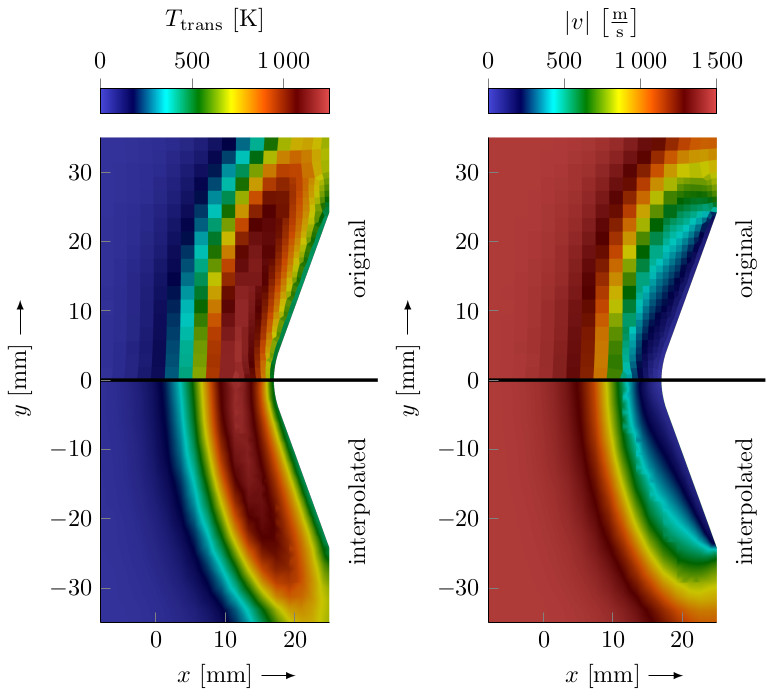
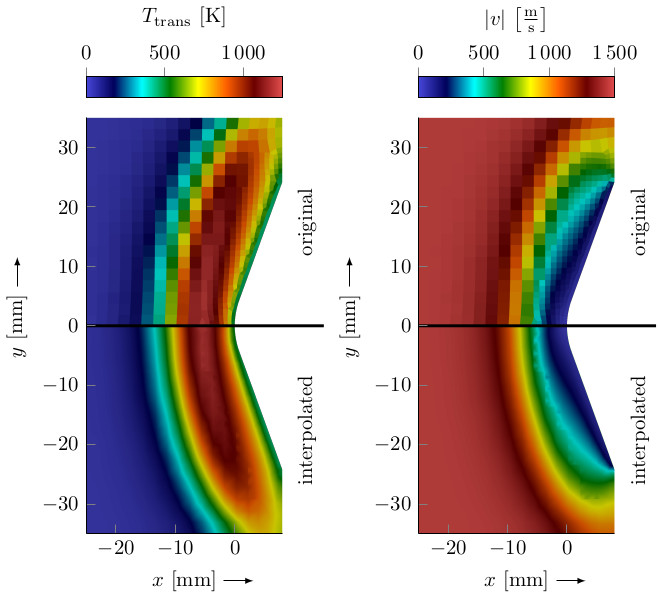
DSMC Tutorials: Fix axis of Figure 7.8, clarification regarding mesh conversion, build process and simulation restart

diff --git a/docs/documentation/userguide/tutorials/dsmc-cone/results/dsmc-cone-visu.tex b/docs/documentation/userguide/tutorials/dsmc-cone/results/dsmc-cone-visu.tex
@@ -19,8 +19,8 @@
     axis equal image,
     scaled ticks=false,
     unbounded coords=jump,
-    xmin=-8,
-    xmax=25,
+    xmin=-25,
+    xmax=8,
     ymin=-35,
     ymax=35,
     xlabel style={name=xlabel},
@@ -48,11 +48,11 @@
       xlabel style={yshift=1.8cm},
       xlabel={$T_\text{trans}$ $\left[\si{K}\right]$}}
     ]
-    \addplot graphics [xmin=-8,xmax=25,ymin=0,ymax=35] {./dsmc-cone-visuDSMC-2ms-TempTransMean.png};
-    \addplot graphics [xmin=-8,xmax=25,ymin=-35,ymax=0] {./dsmc-cone-visuDSMC-2ms-TempTransMean-point.png};
-    \addplot [line width=0.5mm] (-8,0) -- (32,0);
-    \node[above,rotate=90] at (32, 17.5) {original};
-    \node[above,rotate=90] at (32, -17.5) {interpolated};
+    \addplot graphics [xmin=-25,xmax=8,ymin=0,ymax=35] {./dsmc-cone-visuDSMC-2ms-TempTransMean.png};
+    \addplot graphics [xmin=-25,xmax=8,ymin=-35,ymax=0] {./dsmc-cone-visuDSMC-2ms-TempTransMean-point.png};
+    \addplot [line width=0.5mm] (-25,0) -- (15,0);
+    \node[above,rotate=90] at (15, 17.5) {original};
+    \node[above,rotate=90] at (15, -17.5) {interpolated};
     \end{axis}
     \draw [-latex] (xlabel.east) -- ++(0.5,0);
     \draw [-latex] (ylabel.east) -- ++(0,0.5);
@@ -63,8 +63,8 @@
     axis equal image,
     scaled ticks=false,
     unbounded coords=jump,
-    xmin=-8,
-    xmax=25,
+    xmin=-25,
+    xmax=8,
     ymin=-35,
     ymax=35,
     xlabel style={name=xlabel},
@@ -92,11 +92,11 @@
       xlabel style={yshift=1.8cm},
       xlabel={$\left|v\right|$ $\left[\si{\frac{m}{s}}\right]$}}
     ]
-    \addplot graphics [xmin=-8,xmax=25,ymin=0,ymax=35] {./dsmc-cone-visuDSMC-2ms-Velo.png};
-    \addplot graphics [xmin=-8,xmax=25,ymin=-35,ymax=0] {./dsmc-cone-visuDSMC-2ms-Velo-point.png};
-    \addplot [line width=0.5mm] (-8,0) -- (32,0);
-    \node[above,rotate=90] at (32, 17.5) {original};
-    \node[above,rotate=90] at (32, -17.5) {interpolated};
+    \addplot graphics [xmin=-25,xmax=8,ymin=0,ymax=35] {./dsmc-cone-visuDSMC-2ms-Velo.png};
+    \addplot graphics [xmin=-25,xmax=8,ymin=-35,ymax=0] {./dsmc-cone-visuDSMC-2ms-Velo-point.png};
+    \addplot [line width=0.5mm] (-25,0) -- (15,0);
+    \node[above,rotate=90] at (15, 17.5) {original};
+    \node[above,rotate=90] at (15, -17.5) {interpolated};
     \end{axis}
     \draw [-latex] (xlabel.east) -- ++(0.5,0);
     \draw [-latex] (ylabel.east) -- ++(0,0.5);

diff --git a/docs/documentation/userguide/tutorials/dsmc-cone/dsmc-cone.md b/docs/documentation/userguide/tutorials/dsmc-cone/dsmc-cone.md
@@ -10,7 +10,7 @@ The general information needed to setup a DSMC simulation is given in the previo
 
 ## Mesh Generation with HOPR (pre-processing)
 
-Before the actual simulation is conducted, a mesh file in the HDF5 format has to be supplied. The mesh files used by **piclas** are created by supplying an input file `hopr.ini` with the required information for a mesh that has either been created by an external mesh generator or directly from block-structured information in the `hopr.ini` file itself. Here, a conversion from an external mesh generator is required. The mesh needed for this tutorial is already generated and converted to *70degCone_2D_mesh.h5*. The mesh and the corresponding boundaries are depicted in {numref}`fig:dsmc-cone-mesh`.
+Before the actual simulation is conducted, a mesh file in the HDF5 format has to be supplied. The mesh files used by **piclas** are created by supplying an input file `hopr.ini` with the required information for a mesh that has either been created by an external mesh generator or directly from block-structured information in the `hopr.ini` file itself. Here, a conversion from an external mesh generator would be required, however, the mesh needed for this tutorial has already been generated and converted to *70degCone_2D_mesh.h5*. The mesh and the corresponding boundaries are depicted in {numref}`fig:dsmc-cone-mesh`.
 
 ```{figure} mesh/dsmc-cone-mesh-bcs.jpg
 ---
@@ -40,7 +40,7 @@ The `BoundaryName` needs to be the same as in the CGNS file.
     ! BOUNDARY CONDITIONS
     !=============================================================================== !
     BoundaryName = IN
-    BoundaryType = (/2,0,0,0/)
+    BoundaryType = (/3,0,0,0/)
     BoundaryName = OUT
     BoundaryType = (/3,0,0,0/)
     BoundaryName = WALL
@@ -50,11 +50,11 @@ The `BoundaryName` needs to be the same as in the CGNS file.
     BoundaryName = ROTSYM
     BoundaryType = (/4,0,0,0/)
 
-To create the .h5 mesh file, simply run
+To create the .h5 mesh file, you would simply run
 
     hopr hopr.ini
 
-This would create the mesh file *70degCone_2D_mesh.h5* in HDF5 format. For more information see directly at [https://github.com/hopr-framework/hopr](https://github.com/hopr-framework/hopr).
+This would create the mesh file *70degCone_2D_mesh.h5* in HDF5 format. Please note that this is **not required/possible** for the tutorial as the source mesh file (`70degCone_2D_mesh.cgns`) is not available. For more information see directly at [https://github.com/hopr-framework/hopr](https://github.com/hopr-framework/hopr).
 
 ## Flow simulation with DSMC
 
@@ -66,7 +66,7 @@ or simply run the following command from inside the *build* directory
 
     cmake ../ -DPICLAS_TIMEDISCMETHOD=DSMC
 
-to configure the build process and run `make` afterwards to build the executable. An overview over the available solver and discretization options is given in Section {ref}`sec:solver-settings`. The values of the general physical properties are listed in {numref}`tab:dsmc_cone_phys`.
+to configure the build process and run `make` afterwards to build the executable. It is recommended to either utilize a separate build folder (e.g. build_DSMC/) or to delete the contents of the folder beforehand to avoid conflicts between different compiler options (e.g. the setting `PICLAS_EQNSYSNAME = poisson` from the plasma wave tutorial is in conflict with the DSMC method). An overview over the available solver and discretization options is given in Section {ref}`sec:solver-settings`. The values of the general physical properties are listed in {numref}`tab:dsmc_cone_phys`.
 
 ```{table} Physical properties at the simulation start
 ---
@@ -95,28 +95,6 @@ To define an incoming, continuous flow, the procedure is similar to that for ini
     Part-Species1-Surfaceflux1-PartDensity          = 3.715E+20
     Part-Species1-Surfaceflux1-VeloIC               = 1502.57
     Part-Species1-Surfaceflux1-VeloVecIC            = (/1.,0.,0./)
-
-### MPI and Load Balancing
-
-When using several cores, piclas divides the computing load by distributing the computing cells to the various cores. If a particle leaves the boundaries of a core, it is necessary that the surrounding grid is also known. This region is defined by the `Particles-HaloEpsVelo` and the time step. In general, it can be said that this velocity should be greater than or equal to the maximum velocity of any particle in the simulation. This prevents a particle from completely flying through this halo region during a time step.
-
-    Particles-HaloEpsVelo = 8.0E+4
-
-If the conditions change, it could make sense to redistribute the computing load. An example is the build-up of a bow shock during the simulation time: While all cells have the same particle density during initialization, an imbalance will develop after a short time. The cores with cells in the area of the bow shock have significantly more computational effort, since the particle density is significantly higher. As mentioned at the beginning, **piclas** redistributes the computing load each time it is started. To perform a restart, the state file (Projectname_State_Timestamp.h5) must be appended to the standard start command.
-
-    mpirun -np 8 piclas parameter.ini DSMC.ini Projectname_State_Timestamp.h5 > std.out
-
-The parameter `Particles-MPIWeight` indicates whether the distribution should be oriented more towards a uniform distribution of the cells (values less than 1) or a uniform distribution of the particles (values greater than 1). There are options in piclas to automate this process by defining load balancing steps during a single program call. For this, load balancing must have been activated when compiling piclas (which is the default). To activate load balancing based on the number of particles, `DoLoadBalance = T` and `PartWeightLoadBalance = T` must be set. **piclas** then decides after each `Analyze_dt` whether a redistribution is required. This is done using the definable `Load DeviationThreshold`. Should the maximum relative deviation of the calculation load be greater than this value, a load balancing step is carried out. If `DoInitialAutoRestart = T` and `InitialAutoRestart-PartWeightLoadBalance = T` are set, a restart is carried out after the first `Analyze_dt` regardless of the calculated imbalance. To restrict the number of restarts, `LoadBalanceMaxSteps` limits the number of all load balancing steps to the given number.
-
-    ! Load Balancing
-    Particles-MPIWeight                      = 1000
-    DoLoadBalance                            = T
-    PartWeightLoadBalance                    = T
-    DoInitialAutoRestart                     = T
-    InitialAutoRestart-PartWeightLoadBalance = T
-    LoadBalanceMaxSteps                      = 2
-
-Information about the imbalance are shown in the *std.out* and the *ElemTimeStatistics.csv* file.
 
 ### Exploiting symmetry
 
@@ -172,6 +150,38 @@ The second method is activated via `Part-WriteMacroValues = T`. In this approach
     Part-IterationForMacroVal         = 1250
 
 For further information see {ref}`sec:sampled-flow-field-and-surface-variables`.
+
+## Run the simulation
+
+Finally, you can start the simulation using the Message Passing Interface (MPI) on multiple cores
+
+    mpirun -np 8 piclas parameter.ini DSMC.ini > std.out
+
+To continue a simulation after a successful run, you have to provide the state file (`Projectname_State_Timestamp.h5`) you want to restart from
+
+    mpirun -np 8 piclas parameter.ini DSMC.ini Projectname_State_Timestamp.h5 > std.out
+
+The restart also redistributes the computational load and can thus significantly reduce the time to solution. In the following, additional automatic load balancing during the run-time is described.
+
+### MPI and Load Balancing
+
+When using several cores, piclas divides the computing load by distributing the computing cells to the various cores. If a particle leaves the boundaries of a core, it is necessary that the surrounding grid is also known. This region is defined by the `Particles-HaloEpsVelo` and the time step. In general, it can be said that this velocity should be greater than or equal to the maximum velocity of any particle in the simulation. This prevents a particle from completely flying through this halo region during a time step.
+
+    Particles-HaloEpsVelo = 8.0E+4
+
+If the conditions change, it could make sense to redistribute the computing load. An example is the build-up of a bow shock during the simulation time: While all cells have the same particle density during initialization, an imbalance will develop after a short time. The cores with cells in the area of the bow shock have significantly more computational effort, since the particle density is significantly higher. As mentioned at the beginning, **piclas** redistributes the computing load each time it is started.
+
+The parameter `Particles-MPIWeight` indicates whether the distribution should be oriented more towards a uniform distribution of the cells (values less than 1) or a uniform distribution of the particles (values greater than 1). There are options in piclas to automate this process by defining load balancing steps during a single program call. For this, load balancing must have been activated when compiling piclas (which is the default). To activate load balancing based on the number of particles, `DoLoadBalance = T` and `PartWeightLoadBalance = T` must be set. **piclas** then decides after each `Analyze_dt` whether a redistribution is required. This is done using the definable `Load DeviationThreshold`. Should the maximum relative deviation of the calculation load be greater than this value, a load balancing step is carried out. If `DoInitialAutoRestart = T` and `InitialAutoRestart-PartWeightLoadBalance = T` are set, a restart is carried out after the first `Analyze_dt` regardless of the calculated imbalance. To restrict the number of restarts, `LoadBalanceMaxSteps` limits the number of all load balancing steps to the given number.
+
+    ! Load Balancing
+    Particles-MPIWeight                      = 1000
+    DoLoadBalance                            = T
+    PartWeightLoadBalance                    = T
+    DoInitialAutoRestart                     = T
+    InitialAutoRestart-PartWeightLoadBalance = T
+    LoadBalanceMaxSteps                      = 2
+
+Information about the imbalance are shown in the *std.out* and the *ElemTimeStatistics.csv* file.
 
 ## Visualization (post-processing)
 

diff --git a/docs/documentation/userguide/tutorials/dsmc-reservoir/dsmc-reservoir.md b/docs/documentation/userguide/tutorials/dsmc-reservoir/dsmc-reservoir.md
@@ -64,7 +64,7 @@ or simply run the following command from inside the *build* directory
 
     cmake ../ -DPICLAS_TIMEDISCMETHOD=RESERVOIR
 
-to configure the build process and run `make` afterwards to build the executable. For this setup, the reservoir method, which is based on the DSMC method, is needed to allow for reservoir specific settings. An overview over the available solver and discretization options is given in Section {ref}`sec:solver-settings`. The physical parameters for this test case are summarized in {numref}`tab:dsmc_chem_off_phys`.
+to configure the build process and run `make` afterwards to build the executable. For this setup, the reservoir method, which is based on the DSMC method, is needed to allow for reservoir specific settings. It is recommended to either utilize a separate build folder (e.g. build_DSMC/) or to delete the contents of the folder beforehand to avoid conflicts between different compiler options (e.g. the setting `PICLAS_EQNSYSNAME = poisson` from the plasma wave tutorial is in conflict with the DSMC method). An overview over the available solver and discretization options is given in Section {ref}`sec:solver-settings`. The physical parameters for this test case are summarized in {numref}`tab:dsmc_chem_off_phys`.
 
 ```{table} Physical properties at the simulation start
 ---

diff --git a/docs/documentation/userguide/tutorials/pic-poisson-plasma-wave/pic-poisson-plasma-wave.md b/docs/documentation/userguide/tutorials/pic-poisson-plasma-wave/pic-poisson-plasma-wave.md
@@ -9,8 +9,8 @@ electric field.
 Before beginning with the tutorial, copy the `pic-poisson-plasma-wave` directory from the tutorial folder in the top level
 directory to a separate location
 
-        cp -r $PICLAS_PATH/tutorials/pic-poisson-plasma-wave .
-        cd pic-poisson-plasma-wave
+    cp -r $PICLAS_PATH/tutorials/pic-poisson-plasma-wave .
+    cd pic-poisson-plasma-wave
 
 ## Mesh Generation with HOPR (pre-processing)
 
